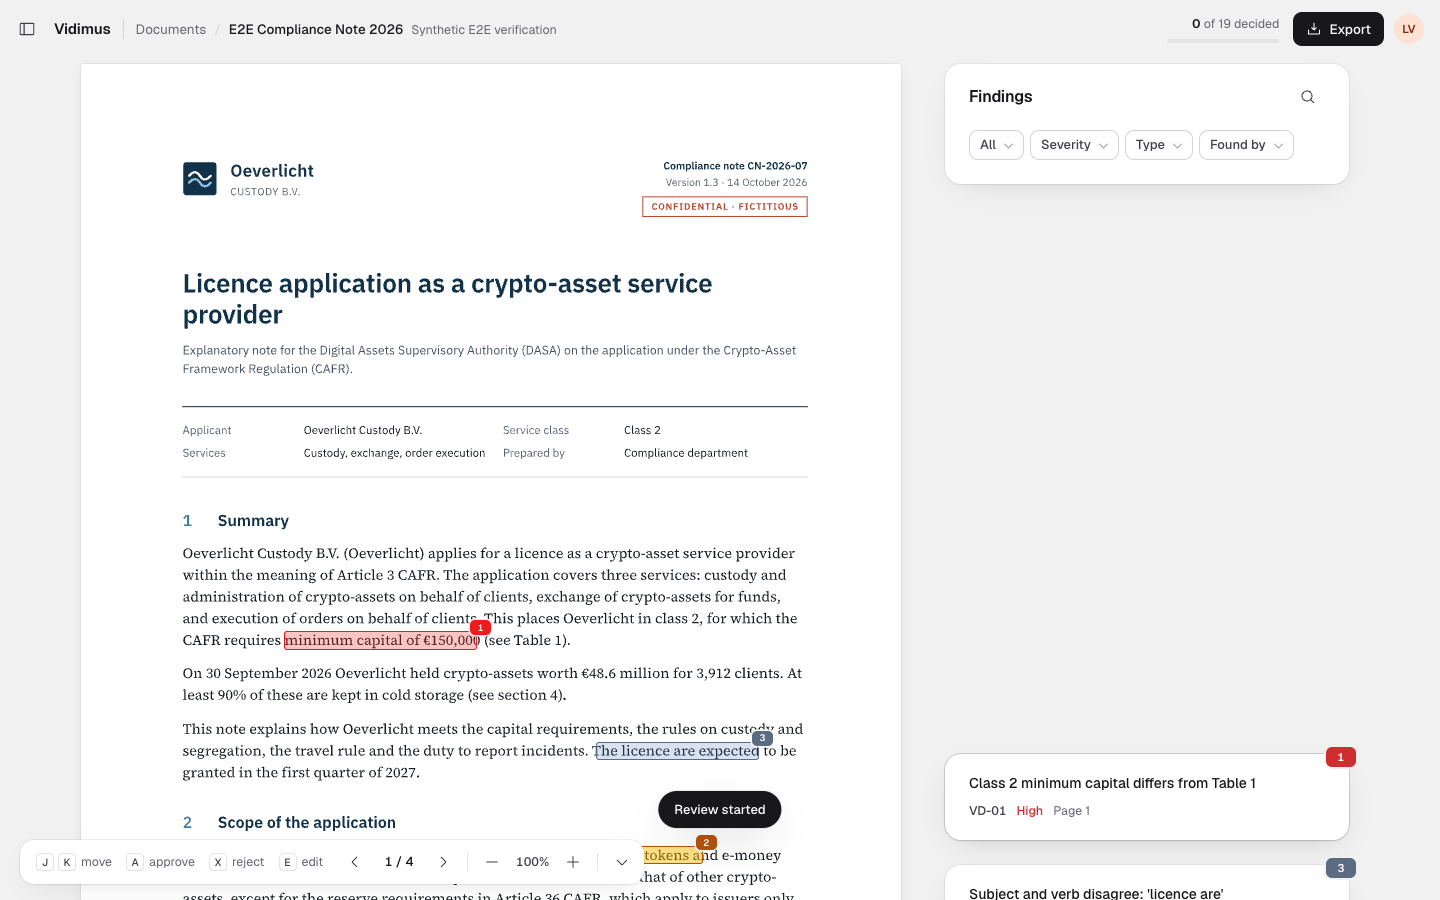
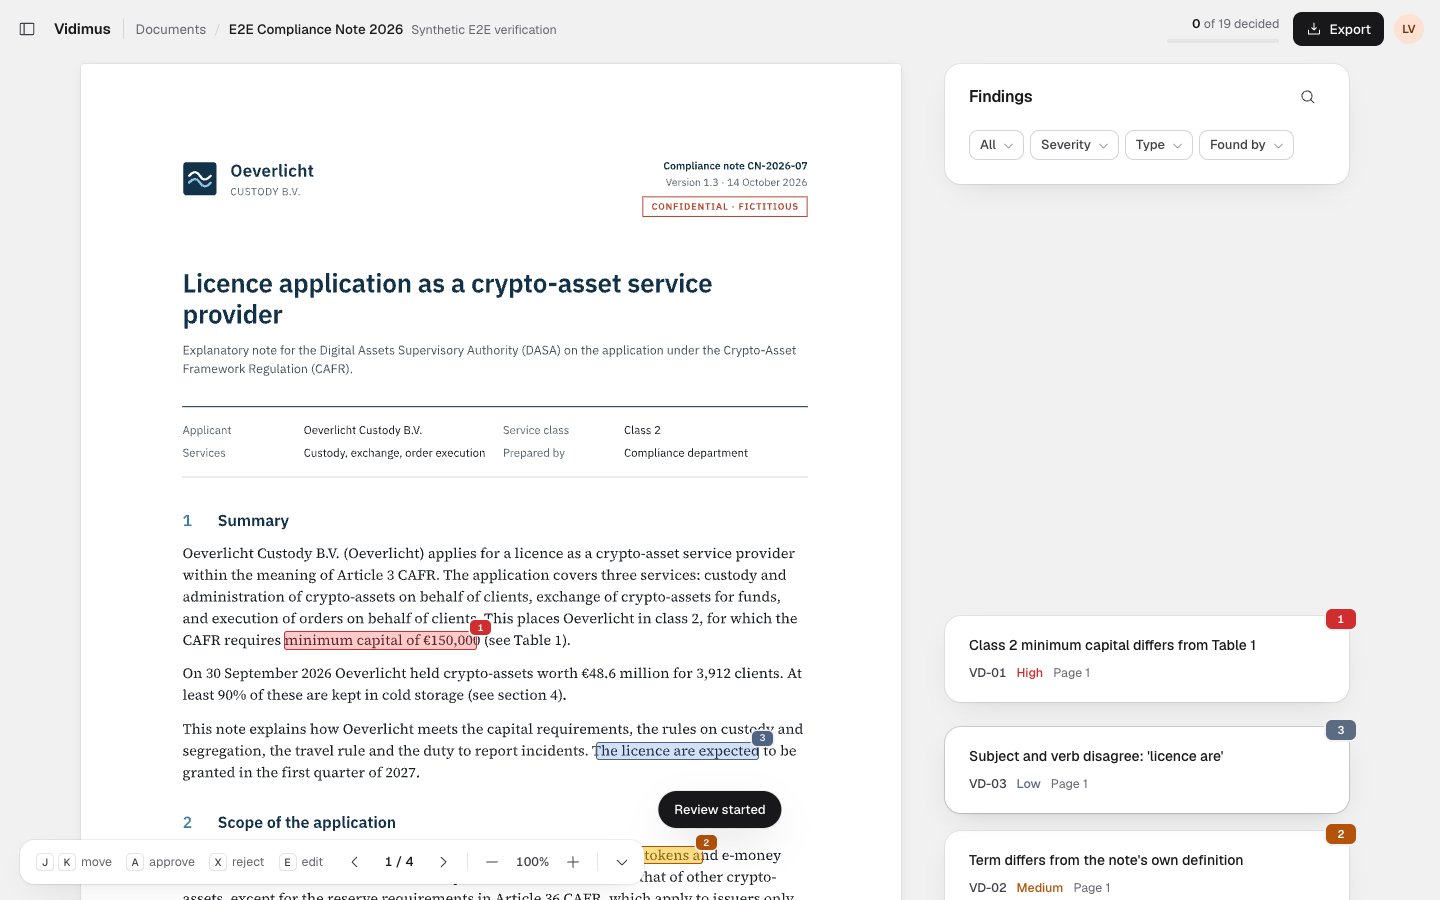
fix(web): open finding cards directly under the filter bar

diff --git a/web/src/pages/ReviewDeskPage.tsx b/web/src/pages/ReviewDeskPage.tsx
@@ -224,11 +224,10 @@ export function ReviewDeskPage() {
     if (selIdx < 0) {
       stackDown(0);
     } else {
-      // Lift the open card close under the sticky findings filter card (Paper behavior)
+      // Open comments always sit right under the sticky Findings filter card
       const sr = scrollerEl.getBoundingClientRect();
       const spot = sr.top + minTop - laneTop;
-      const ay = items[selIdx].y;
-      tops[selIdx] = ay > spot && laneTop + ay < sr.bottom + 80 ? Math.max(minTop, spot) : ay;
+      tops[selIdx] = Math.max(minTop, spot);
       stackDown(selIdx + 1);
       for (let i = selIdx - 1; i >= 0; i--) {
         tops[i] = Math.min(items[i].y, tops[i + 1] - LANE_GAP - items[i].h);

diff --git a/web/src/styles/paper.css b/web/src/styles/paper.css
@@ -769,7 +769,7 @@ html[data-theme="dark"] .iconbtn:hover { background: rgba(255, 255, 255, .08); }
 .mitem[role="menuitemradio"] > .cbox { box-shadow: none; background: none; }
 .mitem[role="menuitemradio"][aria-checked="true"] > .cbox { background: none; color: var(--ink); }
 
-.cmts { position: relative; list-style: none; margin: 0; padding: 0; }
+.cmts { position: absolute; inset: 0; list-style: none; margin: 0; padding: 0; }
 .cmt {
   position: absolute;
   left: 0;
